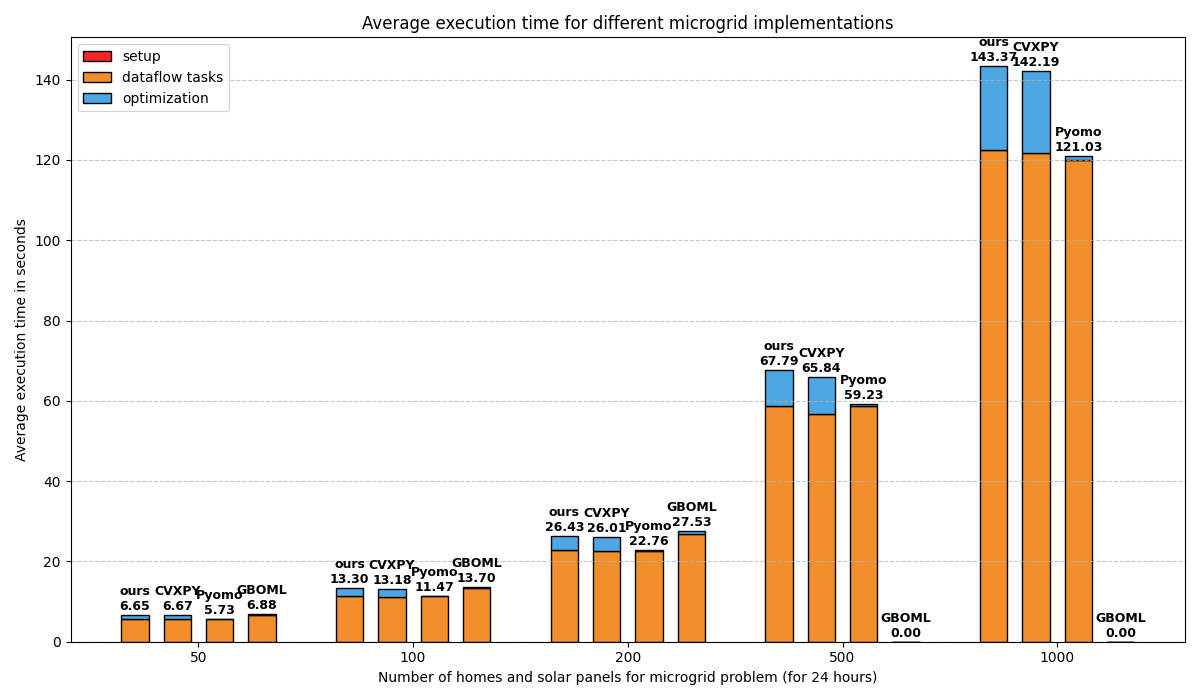
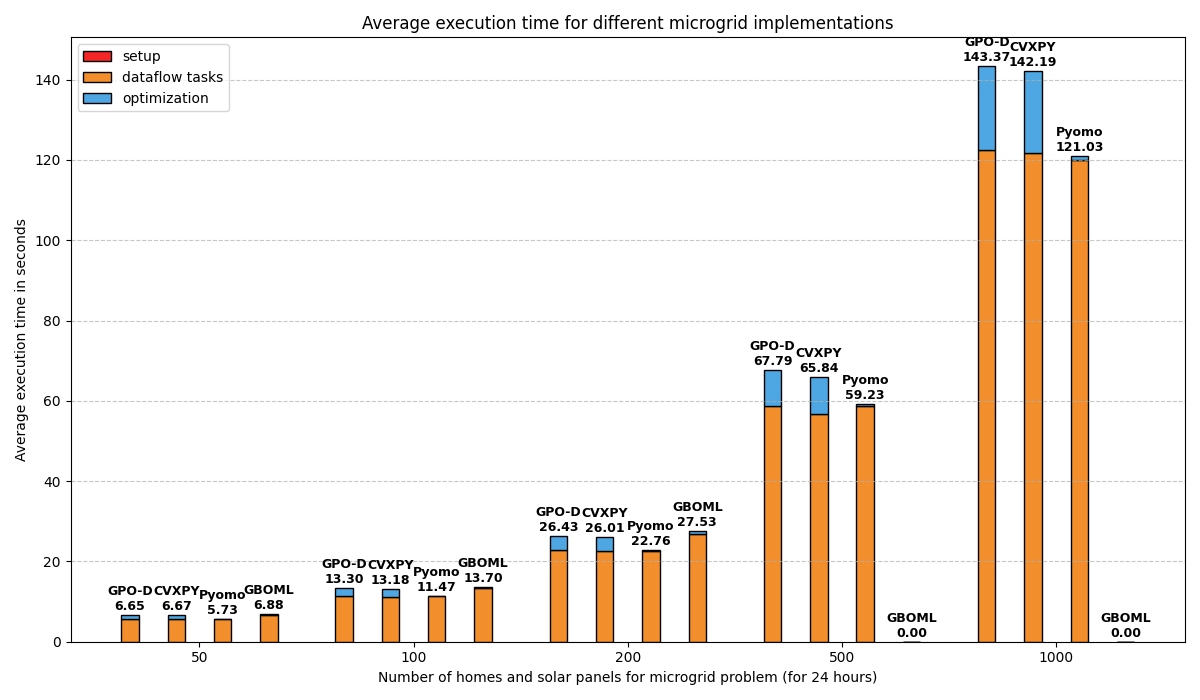
Corrected names on benchmark plots.

Changed region(s): [[0.2775, 0.48, 0.7708, 0.96], [0.8017, 0.03, 0.9558, 0.96], [0.0925, 0.84, 0.2467, 0.96]]

diff --git a/benchmark/plot_results.py b/benchmark/plot_results.py
@@ -27,8 +27,8 @@ def plot_segmented_bar_chart(results, title, x_label, y_label, output_path):
                 data[i, j, k] = values[k]
 
     bar_width = 0.18
-    bar_spacing = 0.10  # space between bars within a group
-    group_spacing = 0.40  # more space between groups
+    bar_spacing = 0.30  # space between bars within a group
+    group_spacing = 0.60  # more space between groups
     group_width = n_bars * bar_width + (n_bars - 1) * bar_spacing + group_spacing
     x = np.arange(n_groups) * group_width
 
@@ -92,7 +92,7 @@ def plot_bar_chart(results, title, x_label, y_label, output_path):
             data[i, j] = value
 
     bar_width = 0.18
-    bar_spacing = 0.10  # space between bars within a group
+    bar_spacing = 0.20  # space between bars within a group
     group_spacing = 0.40  # more space between groups
     group_width = n_bars * bar_width + (n_bars - 1) * bar_spacing + group_spacing
     x = np.arange(n_groups) * group_width
@@ -107,7 +107,7 @@ def plot_bar_chart(results, title, x_label, y_label, output_path):
         # Add name and value above each bar (2 lines)
         for i in range(n_groups):
             bar_height = data[i, j]
-            label_text = f"{bar}\n{bar_height:.2f}"
+            label_text = f"{bar_height:.1f}"
             ax.text(x[i] + j * (bar_width + bar_spacing), bar_height + 0.5, label_text,
                     ha='center', va='bottom', fontsize=9, rotation=0, fontweight='bold')
 
